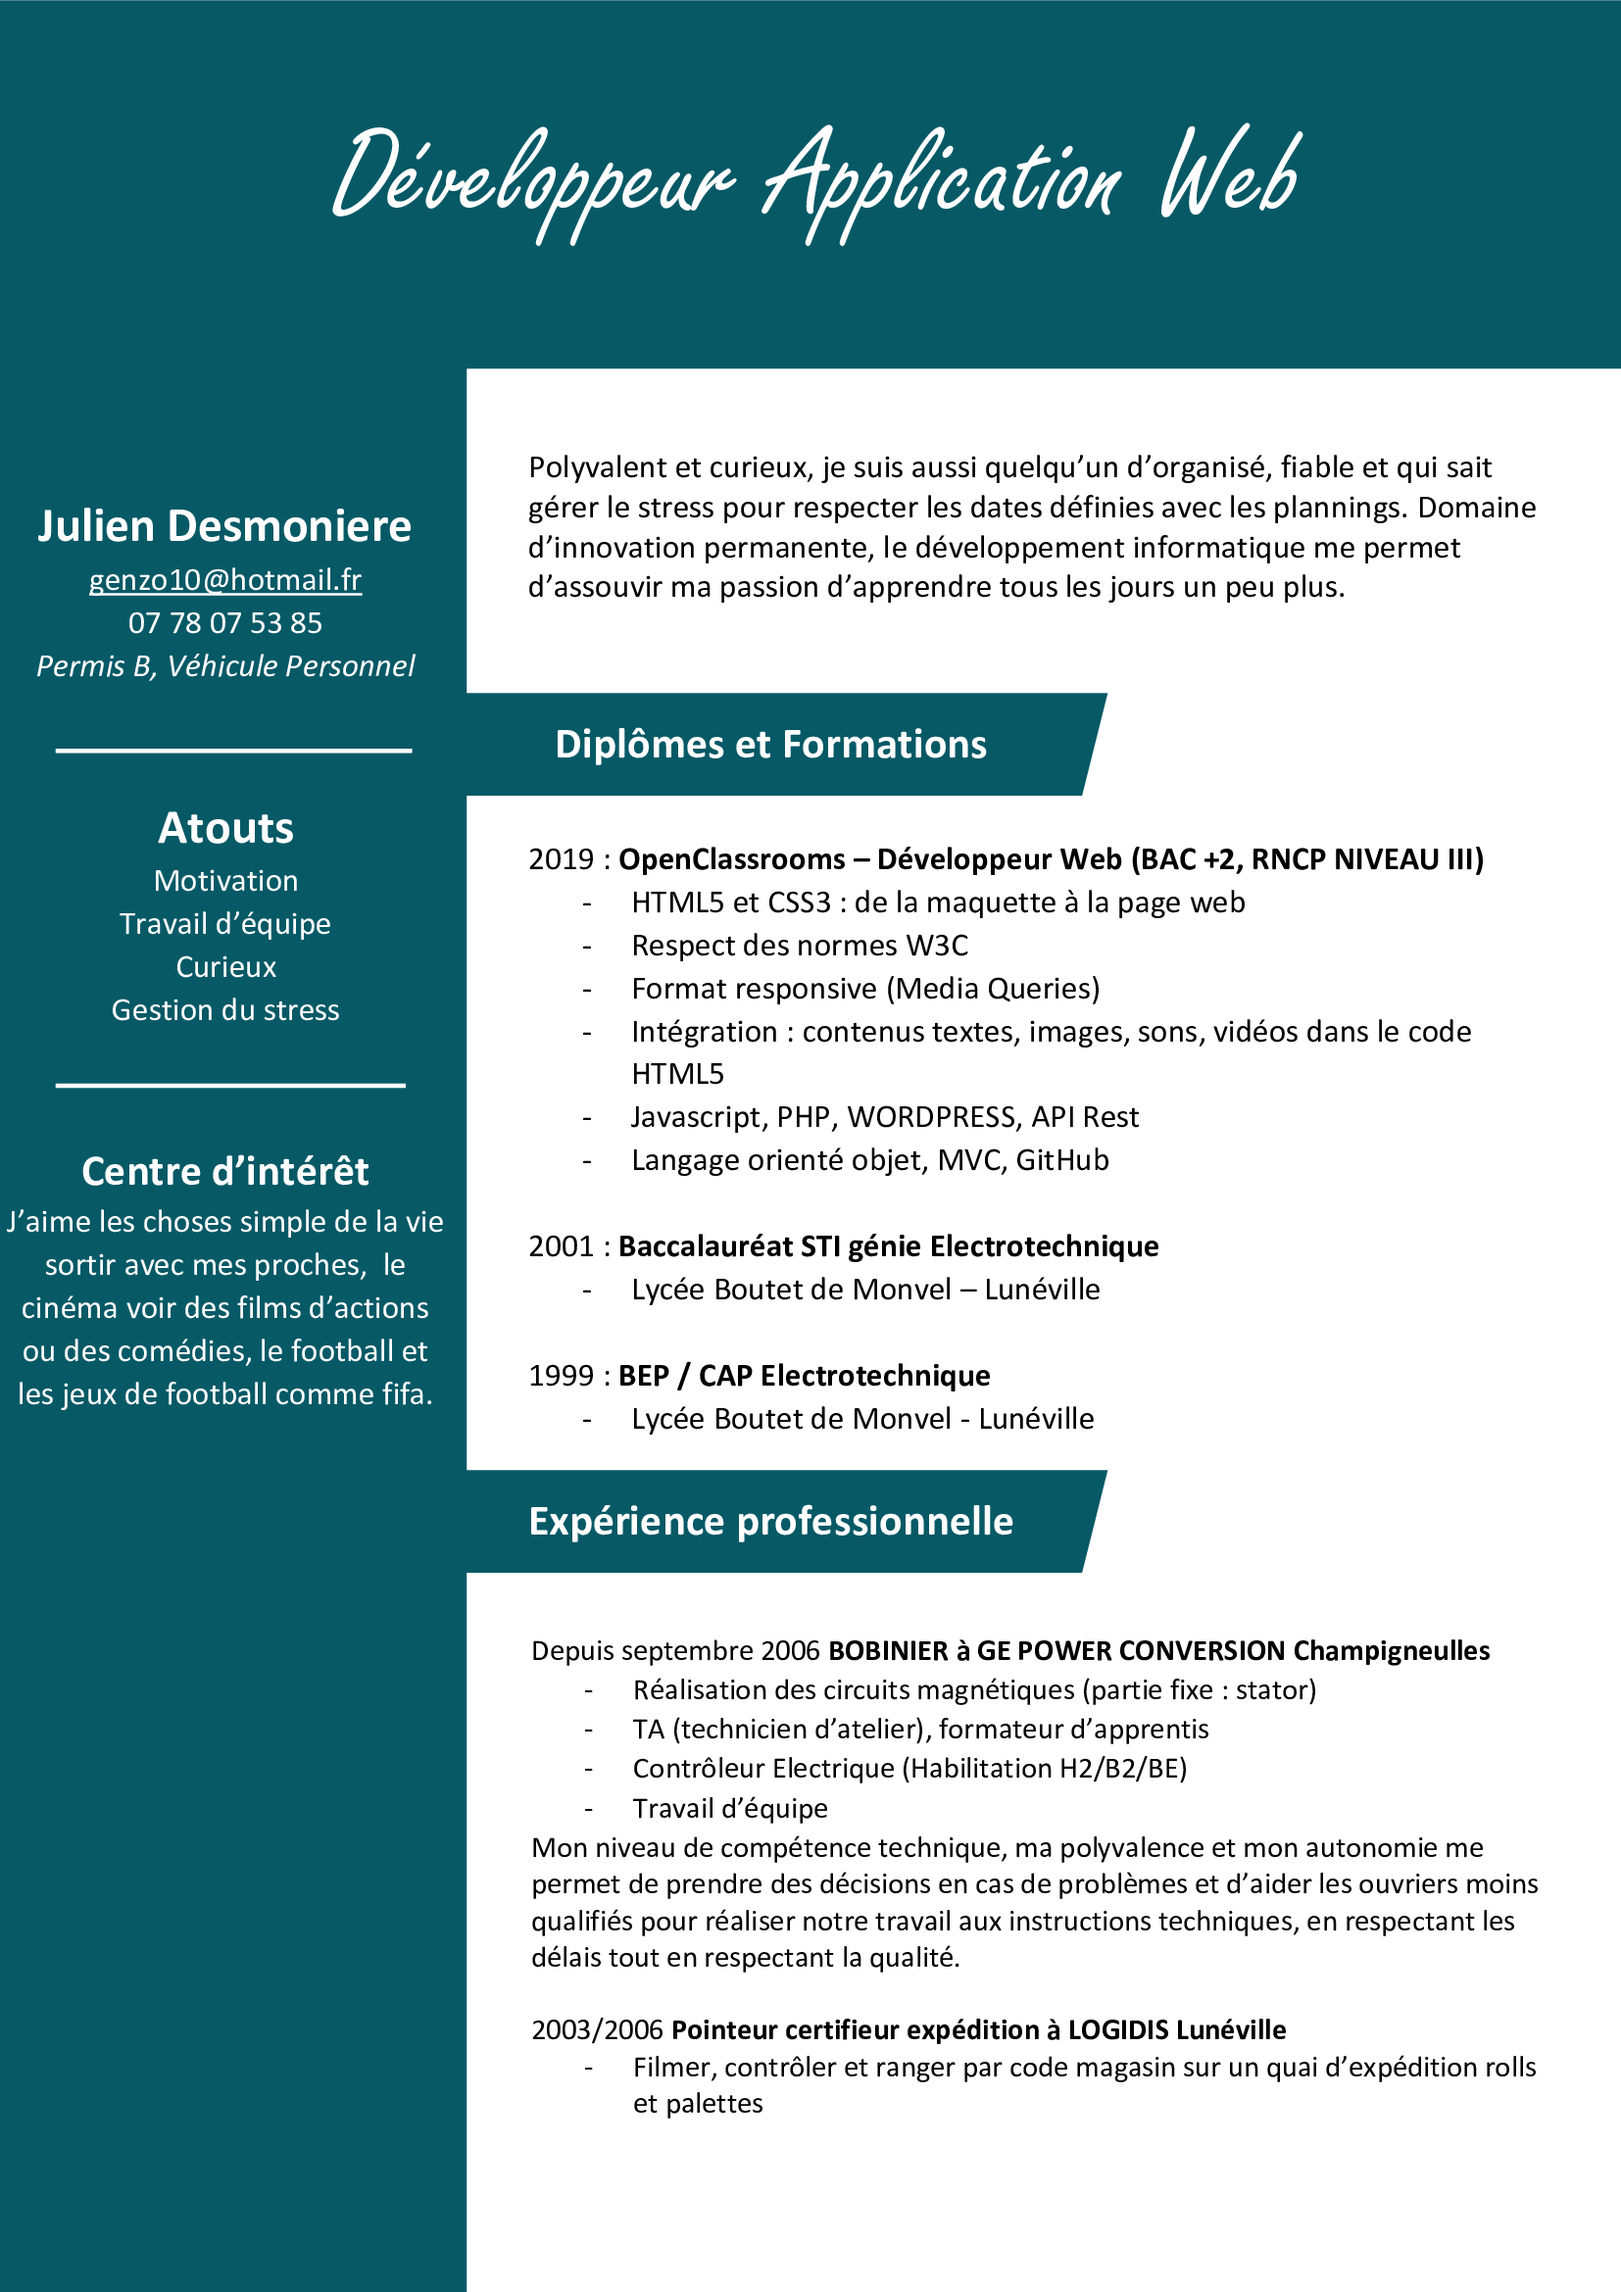
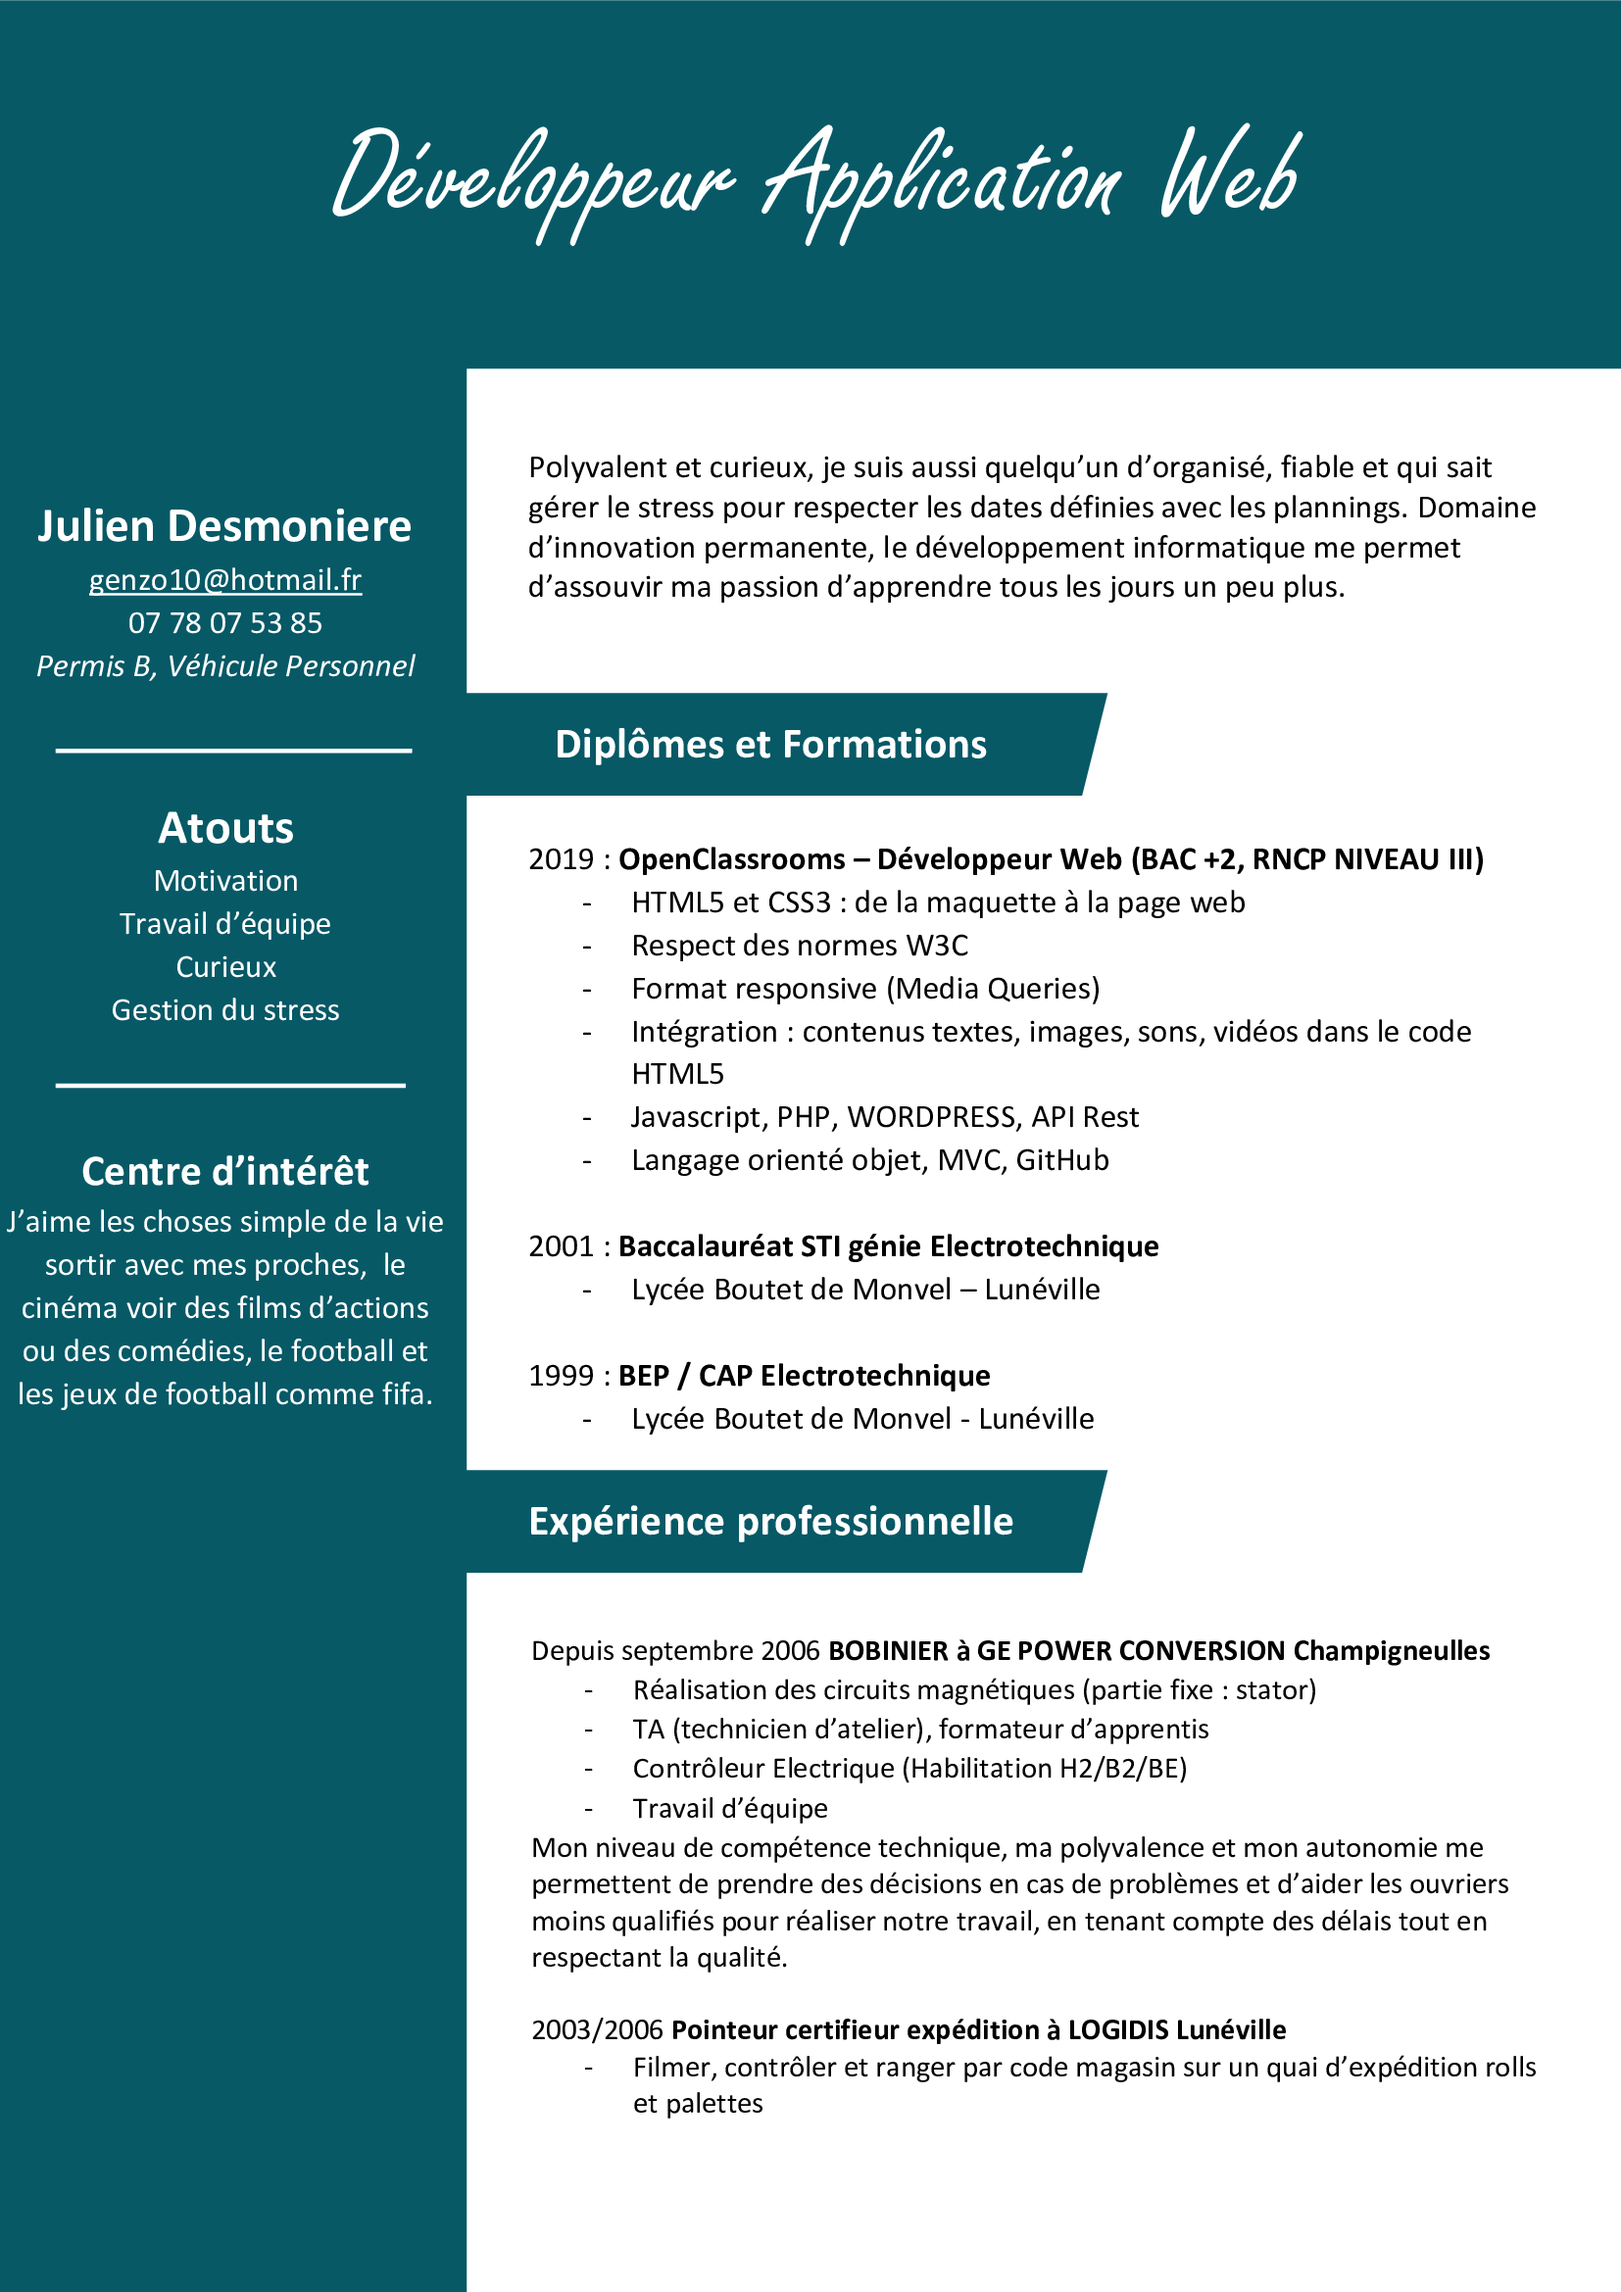
feat: competences page

Changed region(s): [[0.3392, 0.8115, 0.9559, 0.8739]]

diff --git a/src/styles/sass/_competences.scss b/src/styles/sass/_competences.scss
@@ -1,0 +1,89 @@
+.comp_content {
+   min-height: 100vh;
+   display: grid;
+   grid-template-columns: 40% 60%;
+
+   h2 {
+      @include alignCenter();
+      margin-bottom: $spacing4;
+      font-weight: 400;
+      font-size: 1.6rem;
+   }
+}
+
+.bloc_comp {
+   align-self: start;
+   padding: $spacing4;
+}
+
+.language {
+   display: flex;
+   justify-content: space-between;
+   margin-bottom: $spacing3;
+}
+
+.title_language {
+   width: 40%;
+   font-weight: 400;
+}
+
+.circle_language {
+   display: flex;
+}
+
+.circle {
+   width: 16px;
+   height: 16px;
+   border-radius: 50%;
+   margin-right: $spacing2;
+   background-color: white;
+}
+
+.circle_plain {
+   background-color: $primary;
+}
+
+.profil_content {
+   @extend .bloc_comp;
+
+   p {
+      margin-bottom: $spacing3;
+   }
+}
+
+.formations_content, .experiences_content {
+   @extend .bloc_comp;
+}
+
+.formation {
+   margin-bottom: $spacing3;
+
+   h3 {
+      margin: $spacing1 0;
+      font-weight: 400;
+   }
+}
+
+.experiences_content {
+   ul {
+      margin: $spacing2 0;
+   }
+}
+
+@media only screen and (max-width: 800px) {
+   .comp_content {
+      grid-template-columns: 1fr;
+   }
+
+   .languages {
+      max-width: 50%;
+      margin: auto;
+   }
+}
+
+@media #{$small} {
+   .languages {
+      max-width: unset;
+      margin: unset;
+   }
+}

diff --git a/src/components/competences/profil.jsx b/src/components/competences/profil.jsx
@@ -1,0 +1,23 @@
+import React from 'react';
+
+function profil() {
+   return (
+      <div className="profil_content">
+         <h2>Profil</h2>
+         <p>
+            Je m'appelle Julien, je suis né en 1982. Après plusieurs années professionnelles dans le monde de l'industrie, le manque de réflexion et d'épanouissement m'ont fait réagir.
+         </p> 
+         <p>       
+            J'ai décidé de me diriger vers un domaine pour lequel je me suis découvert une nouvelle passion, à savoir la programmation Web. J'ai donc choisi de me reconvertir dans le milieu de l'informatique.
+         </p>
+         <p>
+            Travaillant en équipe de 2*8, j'ai suivi une formation en ligne diplômante (enregistré au RNCP niveau 5/ BAC+2) de Développeur Web pendant 1an. En plus des langages de programmation, j'ai appris l'architecture MVC, la POO et les intéractions avec des API...
+         </p>
+         <p>
+            Cette formation m'a permis d'acquérir de nouvelles compétences au travers de projets web et m'a conforté dans le choix de ma reconversion professionnelle.
+         </p>
+      </div>
+   );
+}
+
+export default profil;

diff --git a/src/components/competences/experiences.jsx b/src/components/competences/experiences.jsx
@@ -1,0 +1,21 @@
+import React from 'react';
+
+function experiences() {
+   return (
+      <div className="experiences_content">
+         <h2>Expériences</h2>
+         <p>Depuis septembre 2006 BOBINIER à GE POWER CONVERSION Champigneulles</p>
+         <ul>
+            <li>-	Réalisation des circuits magnétiques (partie fixe : stator)</li>
+            <li>-	TA (technicien d’atelier), formateur d’apprentis</li>
+            <li>-	Contrôleur Electrique (Habilitation H2/B2/BE)</li>
+            <li>-	Travail d’équipe</li>
+         </ul>   
+         <p>
+            Mon niveau de compétence technique, ma polyvalence et mon autonomie me permettent de prendre des décisions en cas de problèmes et d’aider les ouvriers moins qualifiés pour réaliser notre travail, en tenant compte des délais tout en respectant la qualité.
+         </p>
+      </div>
+   );
+}
+
+export default experiences;

diff --git a/src/components/competences/language.jsx b/src/components/competences/language.jsx
@@ -1,0 +1,20 @@
+import React from 'react';
+
+function language(props) {
+   let {title, level} = props;
+
+   return (
+      <div className="language"> 
+         <p className="title_language">{title}</p>
+         <div className="circle_language">
+            <div className={`circle ${level > 0 && "circle_plain"}`}></div>
+            <div className={`circle ${level > 1 && "circle_plain"}`}></div>
+            <div className={`circle ${level > 2 && "circle_plain"}`}></div>
+            <div className={`circle ${level > 3 && "circle_plain"}`}></div>
+            <div className={`circle ${level > 4 && "circle_plain"}`}></div>
+         </div>
+      </div>
+   );
+}
+
+export default language;

diff --git a/src/components/pages/Competences.jsx b/src/components/pages/Competences.jsx
@@ -1,12 +1,19 @@
 import React from 'react';
 import Sidebar from '../navigation/Sidebar';
+import Languages from '../competences/languages';
+import Profil from '../competences/profil';
+import Formations from '../competences/formations';
+import Experiences from '../competences/experiences';
 
 function Competences() {
    return (
       <div className="competences">
          <Sidebar />
          <div className="comp_content">
-            <p>Mes compétences</p>
+            <Languages />
+            <Profil />
+            <Formations />
+            <Experiences />
          </div>
       </div>
    );

diff --git a/src/components/competences/languages.jsx b/src/components/competences/languages.jsx
@@ -1,0 +1,20 @@
+import React from 'react';
+import Language from '../competences/language';
+
+function languages() {
+   return (
+      <div className="bloc_comp">
+         <h2>Compétences</h2>
+         <div className="languages">
+            <Language title="HTML / CSS" level="4"/>
+            <Language title="JAVASCRIPT" level="3"/>
+            <Language title="PHP" level="3"/>
+            <Language title="REACT" level="3"/>
+            <Language title="WORDPRESS" level="2"/>
+            <Language title="SYMFONY" level="1"/>
+         </div>
+      </div>
+   );
+}
+
+export default languages;

diff --git a/src/components/competences/formations.jsx b/src/components/competences/formations.jsx
@@ -1,0 +1,19 @@
+import React from 'react';
+import { formationsData } from '../../data/formationsData';
+
+function formations() {
+   return (
+      <div className="formations_content">
+         <h2>Formations</h2>
+         {formationsData.map(dataFormation => 
+            <div className="formation" key={dataFormation.id}>
+               <p>{dataFormation.date}</p>
+               <h3>{dataFormation.title}</h3>
+               <p>{dataFormation.location}</p>
+            </div>
+         )}
+      </div>
+   );
+}
+
+export default formations;

diff --git a/src/data/formationsData.js b/src/data/formationsData.js
@@ -1,0 +1,20 @@
+export const formationsData = [
+   {
+     id: 1,
+     title: "RNCP Niveau 3 (BAC +2) Développeur Web",
+     date: 2019,
+     location: "OpenClassrooms (cours à distance)",
+   },
+   {
+     id: 2,
+     title: "Baccalauréat STI génie Electrotechnique",
+     date: 2001,
+     location: "Lycée Boutet de Monvel à Lunéville",
+   },
+   {
+     id: 3,
+     title: "BEP / CAP Electrotechnique",
+     date: 1999,
+     location: "Lycée Boutet de Monvel à Lunéville",
+   }
+]

diff --git a/src/styles/style.scss b/src/styles/style.scss
@@ -3,3 +3,4 @@
 @import "./sass/notFound";
 @import "./sass/home";
 @import "./sass/portfolio";
+@import "./sass/competences";
